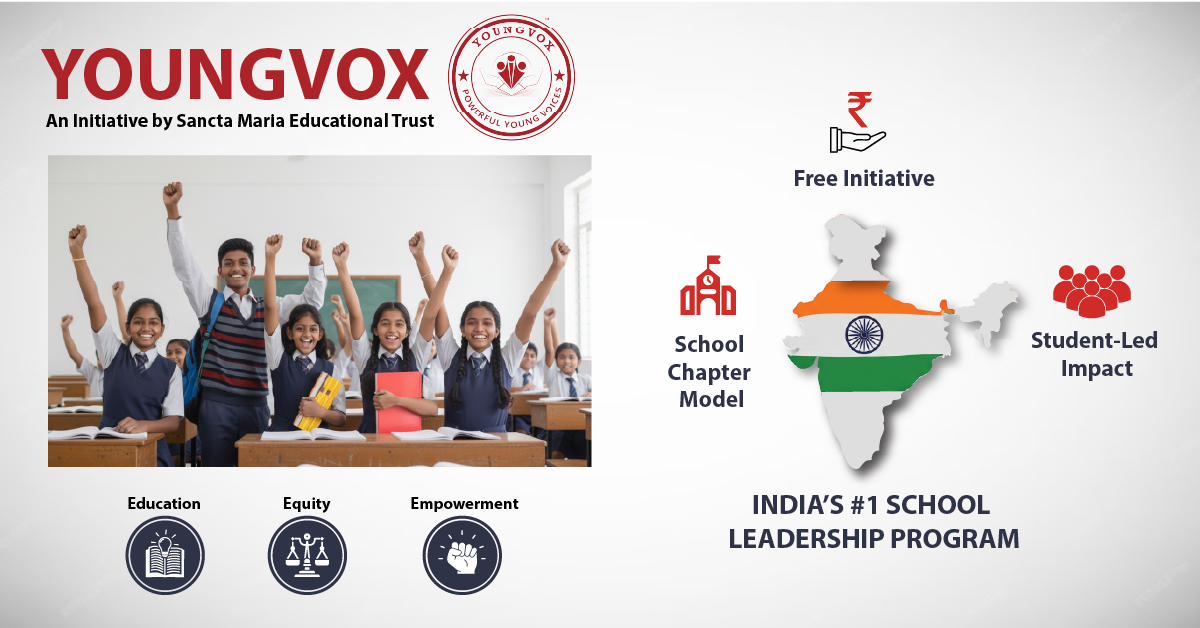
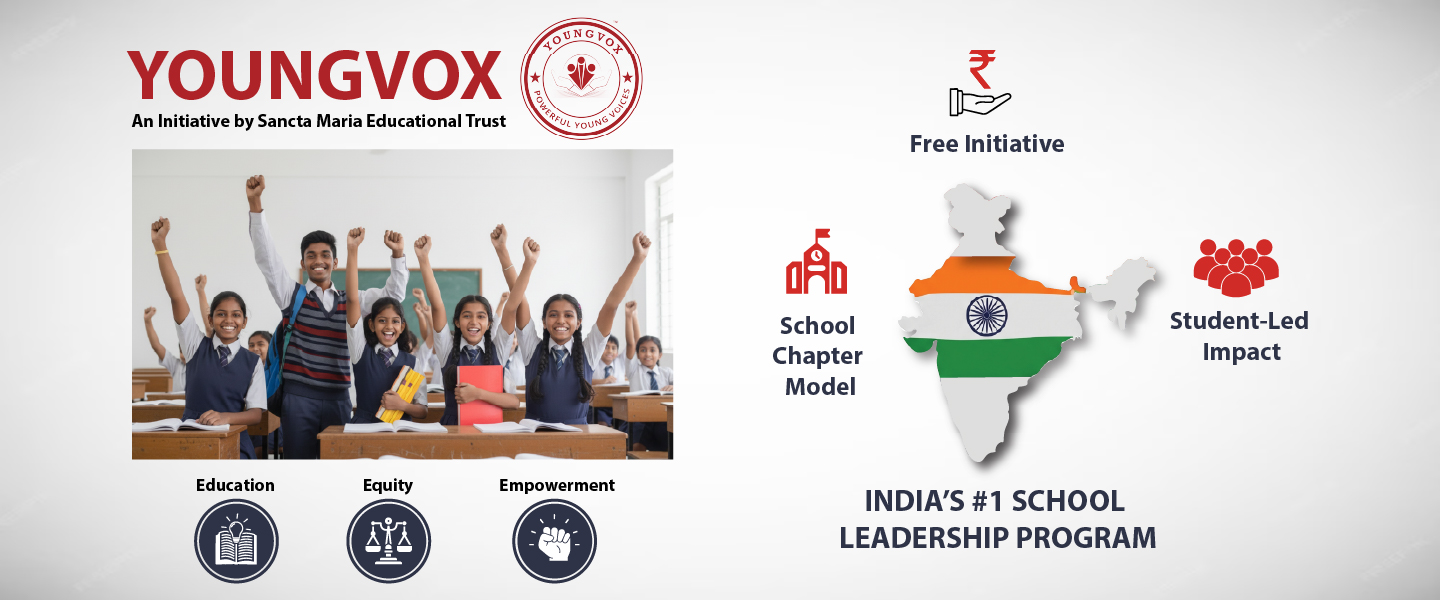
changes

diff --git a/src/components/Hero.jsx b/src/components/Hero.jsx
@@ -14,7 +14,7 @@ const Hero = () => {
         {!imgLoaded && (
           <div
             className="absolute inset-0 bg-gradient-to-r from-gray-200 to-gray-300 animate-pulse"
-            style={{ aspectRatio: '16 / 9' }}
+            style={{ aspectRatio: '14 / 6' }}
           />
         )}
 
@@ -27,9 +27,9 @@ const Hero = () => {
             transition-opacity duration-500
             ${imgLoaded ? 'opacity-100' : 'opacity-0'}
           `}
-          style={{ aspectRatio: '16 / 9' }}
-          width={1920}
-          height={1080}
+          style={{ aspectRatio: '14 / 6' }}
+          width={1440}
+          height={600}
           onLoad={() => setImgLoaded(true)}
         />
 
